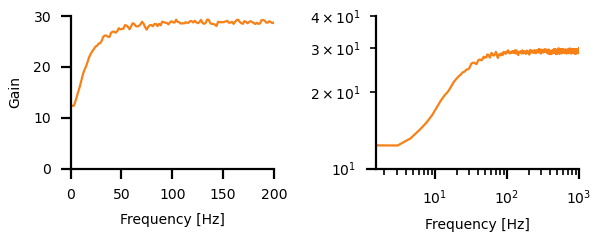
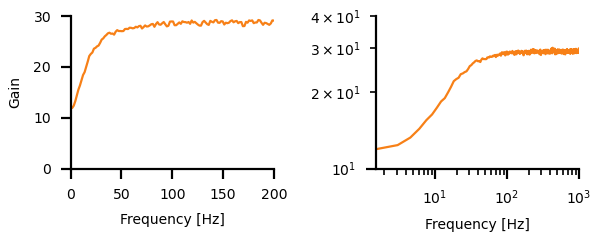
[filter] adaptation bode plot

diff --git a/filter/filterplots.py b/filter/filterplots.py
@@ -76,7 +76,7 @@ def plot_rate_psd():
     mean = 5.0              # stimulus mean
     stdev = 2.5             # stimulus standard deviation
     nfft = 2**10            # nfft for power spectrum estimate
-    rng = np.random.RandomState(981)
+    rng = np.random.RandomState(781)
     stimulus = mean + stdev*filter.whitenoise(0.0, cutoff, dt, tmax, rng)
     time = np.arange(len(stimulus))*dt
     rate, adapt = filter.adaptation(time, stimulus, alpha=0.05, taua=0.02)
@@ -86,6 +86,7 @@ def plot_rate_psd():
     ax.plot(freqs, psd)
     ax.set_xlabel('Frequency [Hz]')
     ax.set_ylabel('Power')
+    ax.set_ylim(0, 40)
     ax = axs[1]
     ax.plot(freqs, 10.0*np.log10(psd/np.max(psd)))
     ax.set_ylim(-20, 0)
@@ -104,16 +105,7 @@ def plot_ratetransfer():
     stimulus = 5.0 + 2.5*filter.whitenoise(0.0, cutoff, dt, tmax)
     time = np.arange(len(stimulus))*dt
     rate, adapt = filter.adaptation(time, stimulus, alpha=0.05, taua=0.02)
-    # gain stimulus - rate:
-    freqs, csd = sig.csd(stimulus, rate, fs=1.0/dt, nperseg=nfft)
-    freqs, psd = sig.welch(stimulus, fs=1.0/dt, nperseg=nfft)
-    transfer = csd/psd
-    # gain is only meaningful up to cutoff frequency:
-    transfer = transfer[freqs<cutoff]
-    freqs = freqs[freqs<cutoff]
-    # gain and phase:
-    gain = np.abs(transfer)
-    phase = np.angle(transfer)
+    freqs, gain, phase = filter.transfer(stimulus, rate, dt, nfft, cutoff)
     # gain plots:
     fig, axs = plt.subplots(1, 2, figsize=(figwidth, 0.4*figwidth))
     ax = axs[0]
@@ -150,50 +142,41 @@ def plot_ratetransfer():
     ax.set_yticklabels([r'$-\pi/4$', r'$0$', r'$\pi/4$'])
     ax.set_xlabel('Frequency [Hz]')
     fig.savefig('filter-ratephase')
-
-
-def plot_transfer(axf, axfl, axa, axal):
-    """ Plot transfer fucntion for spike frequency and adaptation level.
-    """
-    dt = 0.0001               # integration time step in seconds
-    tmax = 100.0              # stimulus duration
-    cutoff = 1010.0           # highest frequency in stimulus
-    nfft = 2**12              # number of samples for Fourier trafo
-    stimulus = 6.0 + 2.0*filter.whitenoise(0.0, cutoff, dt, tmax)
-    time = np.arange(len(stimulus))*dt
-    rate, adapt = filter.adaptation(time, stimulus, alpha=0.05, taua=0.02)
-    frate = filter.isi_lowpass(time, rate)
-    # transfer function stimulus - rate:
-    freqs, csd = sig.csd(stimulus, rate, fs=1.0/dt, nperseg=nfft)
-    freqs, psd = sig.welch(stimulus, fs=1.0/dt, nperseg=nfft)
-    rtransfer = csd/psd
-    rgain = np.abs(rtransfer)
-    # transfer function stimulus - spike frequency:
-    freqs, csd = sig.csd(stimulus, frate, fs=1.0/dt, nperseg=nfft)
-    ftransfer = csd/psd
-    fgain = np.abs(ftransfer)
-    # transfer function stimulus - adaptation:
-    freqs, csd = sig.csd(stimulus, adapt, fs=1.0/dt, nperseg=nfft)
-    atransfer = csd/psd
-    again = np.abs(atransfer)
-    # gain is only meaningful up to cutoff frequency:
-    axf.plot(freqs[freqs<cutoff], rgain[freqs<cutoff], label=r'$f(t)$')
-    axf.plot(freqs[freqs<cutoff], fgain[freqs<cutoff], label=r'$\langle f(t) \rangle $')
-    axf.set_ylabel('Rate gain')
-    axf.legend()
-    axfl.plot(freqs[freqs<cutoff], rgain[freqs<cutoff])
-    axfl.plot(freqs[freqs<cutoff], fgain[freqs<cutoff])
-    axfl.set_xscale('log')
-    axfl.set_yscale('log')
-    axfl.set_ylim(1e0, 1e2)
-    axa.plot(freqs[freqs<cutoff], again[freqs<cutoff])
-    axa.set_xlabel('Frequency [Hz]')
-    axa.set_ylabel('Adaptation gain')
-    axal.plot(freqs[freqs<cutoff], again[freqs<cutoff])
-    axal.set_xscale('log')
-    axal.set_yscale('log')
-    axal.set_ylim(1e-2, 1e0)
-    axal.set_xlabel('Frequency [Hz]')
+    
+    # transfer stimulus - adaptation:
+    freqs, gain, phase = filter.transfer(stimulus, adapt, dt, nfft, cutoff)
+    fig, axs = plt.subplots(2, 2, figsize=(figwidth, 0.5*figwidth))
+    ax = axs[0,0]
+    ax.plot(freqs, gain, color=colors['red'])
+    ax.set_ylabel('Gain')
+    ax.set_xlim(0, 200)
+    ax.set_ylim(0, 0.8)
+    ax.xaxis.set_major_formatter(ticker.NullFormatter())
+    ax.yaxis.set_major_locator(ticker.MultipleLocator(0.2))
+    ax = axs[0,1]
+    ax.plot(freqs, gain, color=colors['red'])
+    ax.set_xscale('log')
+    ax.set_yscale('log')
+    ax.set_ylim(1e-2, 1e0)
+    ax.xaxis.set_major_formatter(ticker.NullFormatter())
+    ax = axs[1,0]
+    ax.axhline(0.0, linestyle=':', color=colors['gray'], lw=0.5)
+    ax.plot(freqs, phase, color=colors['red'])
+    ax.set_xlabel('Frequency [Hz]')
+    ax.set_ylabel('Phase')
+    ax.set_xlim(0, 200)
+    ax.set_ylim(-0.5*np.pi, 0.0)
+    ax.set_yticks([0.0, -0.25*np.pi, -0.5*np.pi])
+    ax.set_yticklabels([r'$0$', r'$-\pi/4$', r'$-\pi/2$'])
+    ax = axs[1,1]
+    ax.axhline(0.0, linestyle=':', color=colors['gray'], lw=0.5)
+    ax.plot(freqs, phase, color=colors['red'])
+    ax.set_xscale('log')
+    ax.set_ylim(-0.5*np.pi, 0.0)
+    ax.set_yticks([0.0, -0.25*np.pi, -0.5*np.pi])
+    ax.set_yticklabels([r'$0$', r'$-\pi/4$', r'$-\pi/2$'])
+    ax.set_xlabel('Frequency [Hz]')
+    fig.savefig('filter-adaptbode')
 
         
 if __name__ == "__main__":

diff --git a/filter/filter.py b/filter/filter.py
@@ -166,7 +166,44 @@ def whitenoise(cflow, cfup, dt, duration, rng=np.random):
     # inverse FFT:
     noise = np.real(np.fft.irfft(whitef))[:n]*sigma*nn
     return noise
-	
+
+
+def transfer(stimulus, response, dt, nfft=2**10, maxf=None):
+    """ Transfer function between stimulus and response.
+
+    Parameters
+    ----------
+    stimulus: 1D array
+        Stimulus time series.
+    response: 1D array
+        Response time series corresponding to `stimulus`.
+    dt: float
+        Time step in seconds.
+    nfft: int
+        Number of samples used for Fourier transformation. Ideally a power of two.
+    maxf: float or None
+        If not `None`, truncate returned arrays at this frequency (in Hertz).
+        This usually is the cutoff frequency of the stimulus used.
+
+    Returns
+    -------
+    freqs: 1D array
+        Frequencies in Hertz.
+    gain: 1D array
+        Gain of the transfer function for each frequency in `freqs`.
+    phase: 1D array
+        Phase of the transfer function in radians for each frequency in `freqs`.
+    """
+    freqs, csd = sig.csd(stimulus, response, fs=1.0/dt, nperseg=nfft)
+    freqs, psd = sig.welch(stimulus, fs=1.0/dt, nperseg=nfft)
+    transfer = csd/psd
+    if maxf:
+        transfer = transfer[freqs<maxf]
+        freqs = freqs[freqs<maxf]
+    gain = np.abs(transfer)
+    phase = np.angle(transfer)
+    return freqs, gain, phase
+
 
 def plot_whitenoise(ax):
     dt = 0.001              # integration time step in seconds

diff --git a/filter/README.md b/filter/README.md
@@ -68,7 +68,7 @@ unit standard deviation (dotted lines).  By multiplying the noise with
 a number one can modify the standard deviation. Adding a number
 modifies the mean of the noise:
 
-```
+``` py
 dt = 0.001              # integration time step in seconds
 tmax = 1.0              # stimulus duration in seconds
 cutoff = 50.0           # highest frequency in stimulus in Hertz
@@ -133,7 +133,7 @@ Note also that the returned power values are a power spectra
 the data values and `Hz` is the frequency unit of the supplied `fs`
 parameter.
 
-```
+``` py
 import scipy.signal as sig
 tmax = 100.0           # more than just a second!
 cutoff = 200.0
@@ -145,12 +145,13 @@ ax.plot(freqs, psd)
 
 ![psd](filter-psd.png)
 
-Very often the power is plotted on a logarithmic scale by transforming
-the power values decibel relative to the maximum power or some other
+The power is usually plotted on a logarithmic scale by transforming
+the power values to decibel relative to the maximum power or some other
 reference power.
 
-```
-dbpsd = 10.0*np.log10(psd/np.max(psd))
+``` py
+pref = np.max(psd)
+dbpsd = 10.0*np.log10(psd/pref)  # decibel relative to pref
 ax.plot(freqs, dbpsd)
 ax.set_ylim(-20, 0)
 ```
@@ -168,7 +169,7 @@ ax.set_ylim(-20, 0)
 In the very same way as for the stimulus we can estimate a power
 spectrum of the neuronal response. Let us simulate the firing rate of
 an adapting neuron and compute its power spectrum:
-```
+``` py
 stimulus = mean + stdev*filter.whitenoise(0.0, cutoff, dt, tmax)
 time = np.arange(len(stimulus))*dt
 rate, adapt = adaptation(time, stimulus, alpha=0.05, taua=0.02)
@@ -200,7 +201,7 @@ transformation of a signal, it multiplies the Fourier transformations
 of two different signals, here the ones of the response and the
 stimulus.
 
-```
+``` py
 freqs, csd = sig.csd(stimulus, rate, fs=1.0/dt, nperseg=nfft)
 freqs, psd = sig.welch(stimulus, fs=1.0/dt, nperseg=nfft)
 transfer = csd/psd
@@ -213,23 +214,23 @@ by zero!), the transfer function at frequencies beyond the cut-off
 frequency of the stimulus is not meaningful. We therefore only keep
 values below the cutoff frequency:
 
-```
+``` py
 transfer = transfer[freqs<cutoff]
-freqs = freqs[freqs<cutoff]
+freqs = freqs[freqs<cutoff]         # this line last!
 ```
 
 The transfer function is a complex valued function of the
 frequencies. Its magnitude (absolute value) is the *gain*:
 
-```
+``` py
 gain = np.abs(transfer)
 ax.plot(freqs, gain)
 ```
 
 ![rategain](filter-rategain.png)
 
-This figure was computed with the following parameters:
-```
+This and the following figure were computed with the following parameters:
+``` py
 dt = 0.00001
 tmax = 200.0
 cutoff = 1010.0
@@ -252,7 +253,7 @@ by the unit of the stimulus.
 
 
 The other aspect of the transfer function is the phase:
-```
+``` py
 phase = np.angle(transfer)
 ax.plot(freqs, phase)
 ```
@@ -266,6 +267,12 @@ The firing rate has positive phase advances at frequencies around the
 inverse adaptation time constant. Note that for large frequencies
 (right panel) we run into numerical problems. We would need to make
 the integration time step even smaller to get phases at zero.
+
+With the same techniques we can compute the transfer function between
+the stimulus and the adaptation variable.
+
+![adaptbode](filter-adaptbode.png)
+
 
 > Vary the integration time step by making it larger or smaller by
 > factors of ten. How does this influence the estimates of the gain
